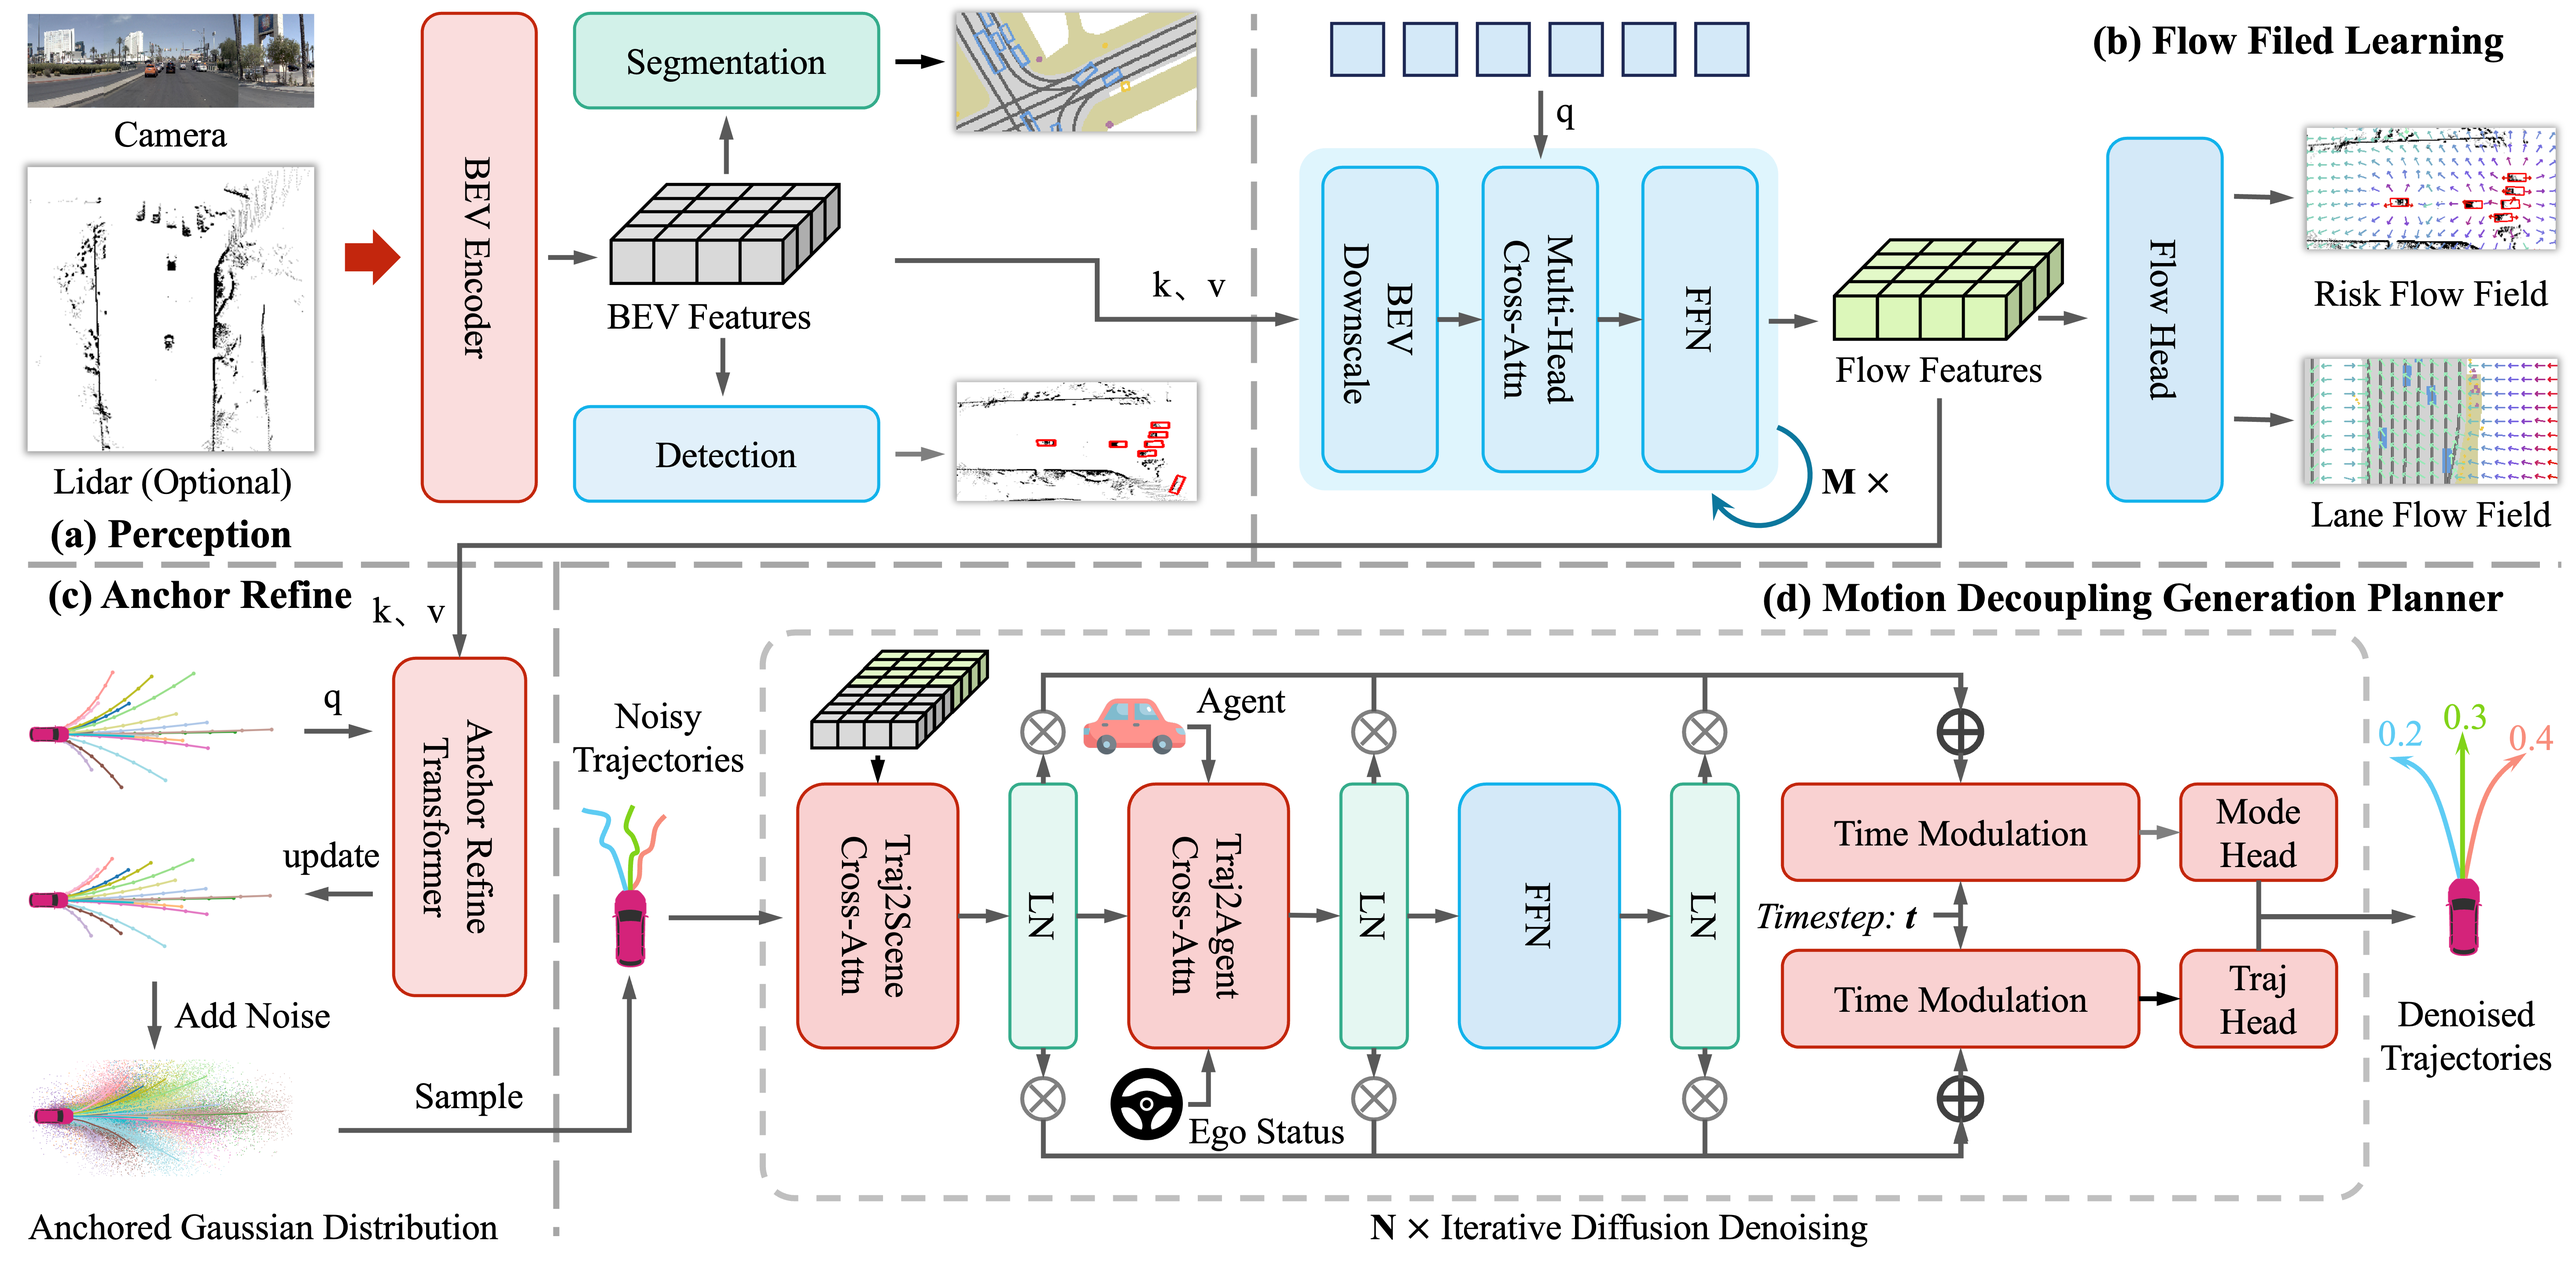
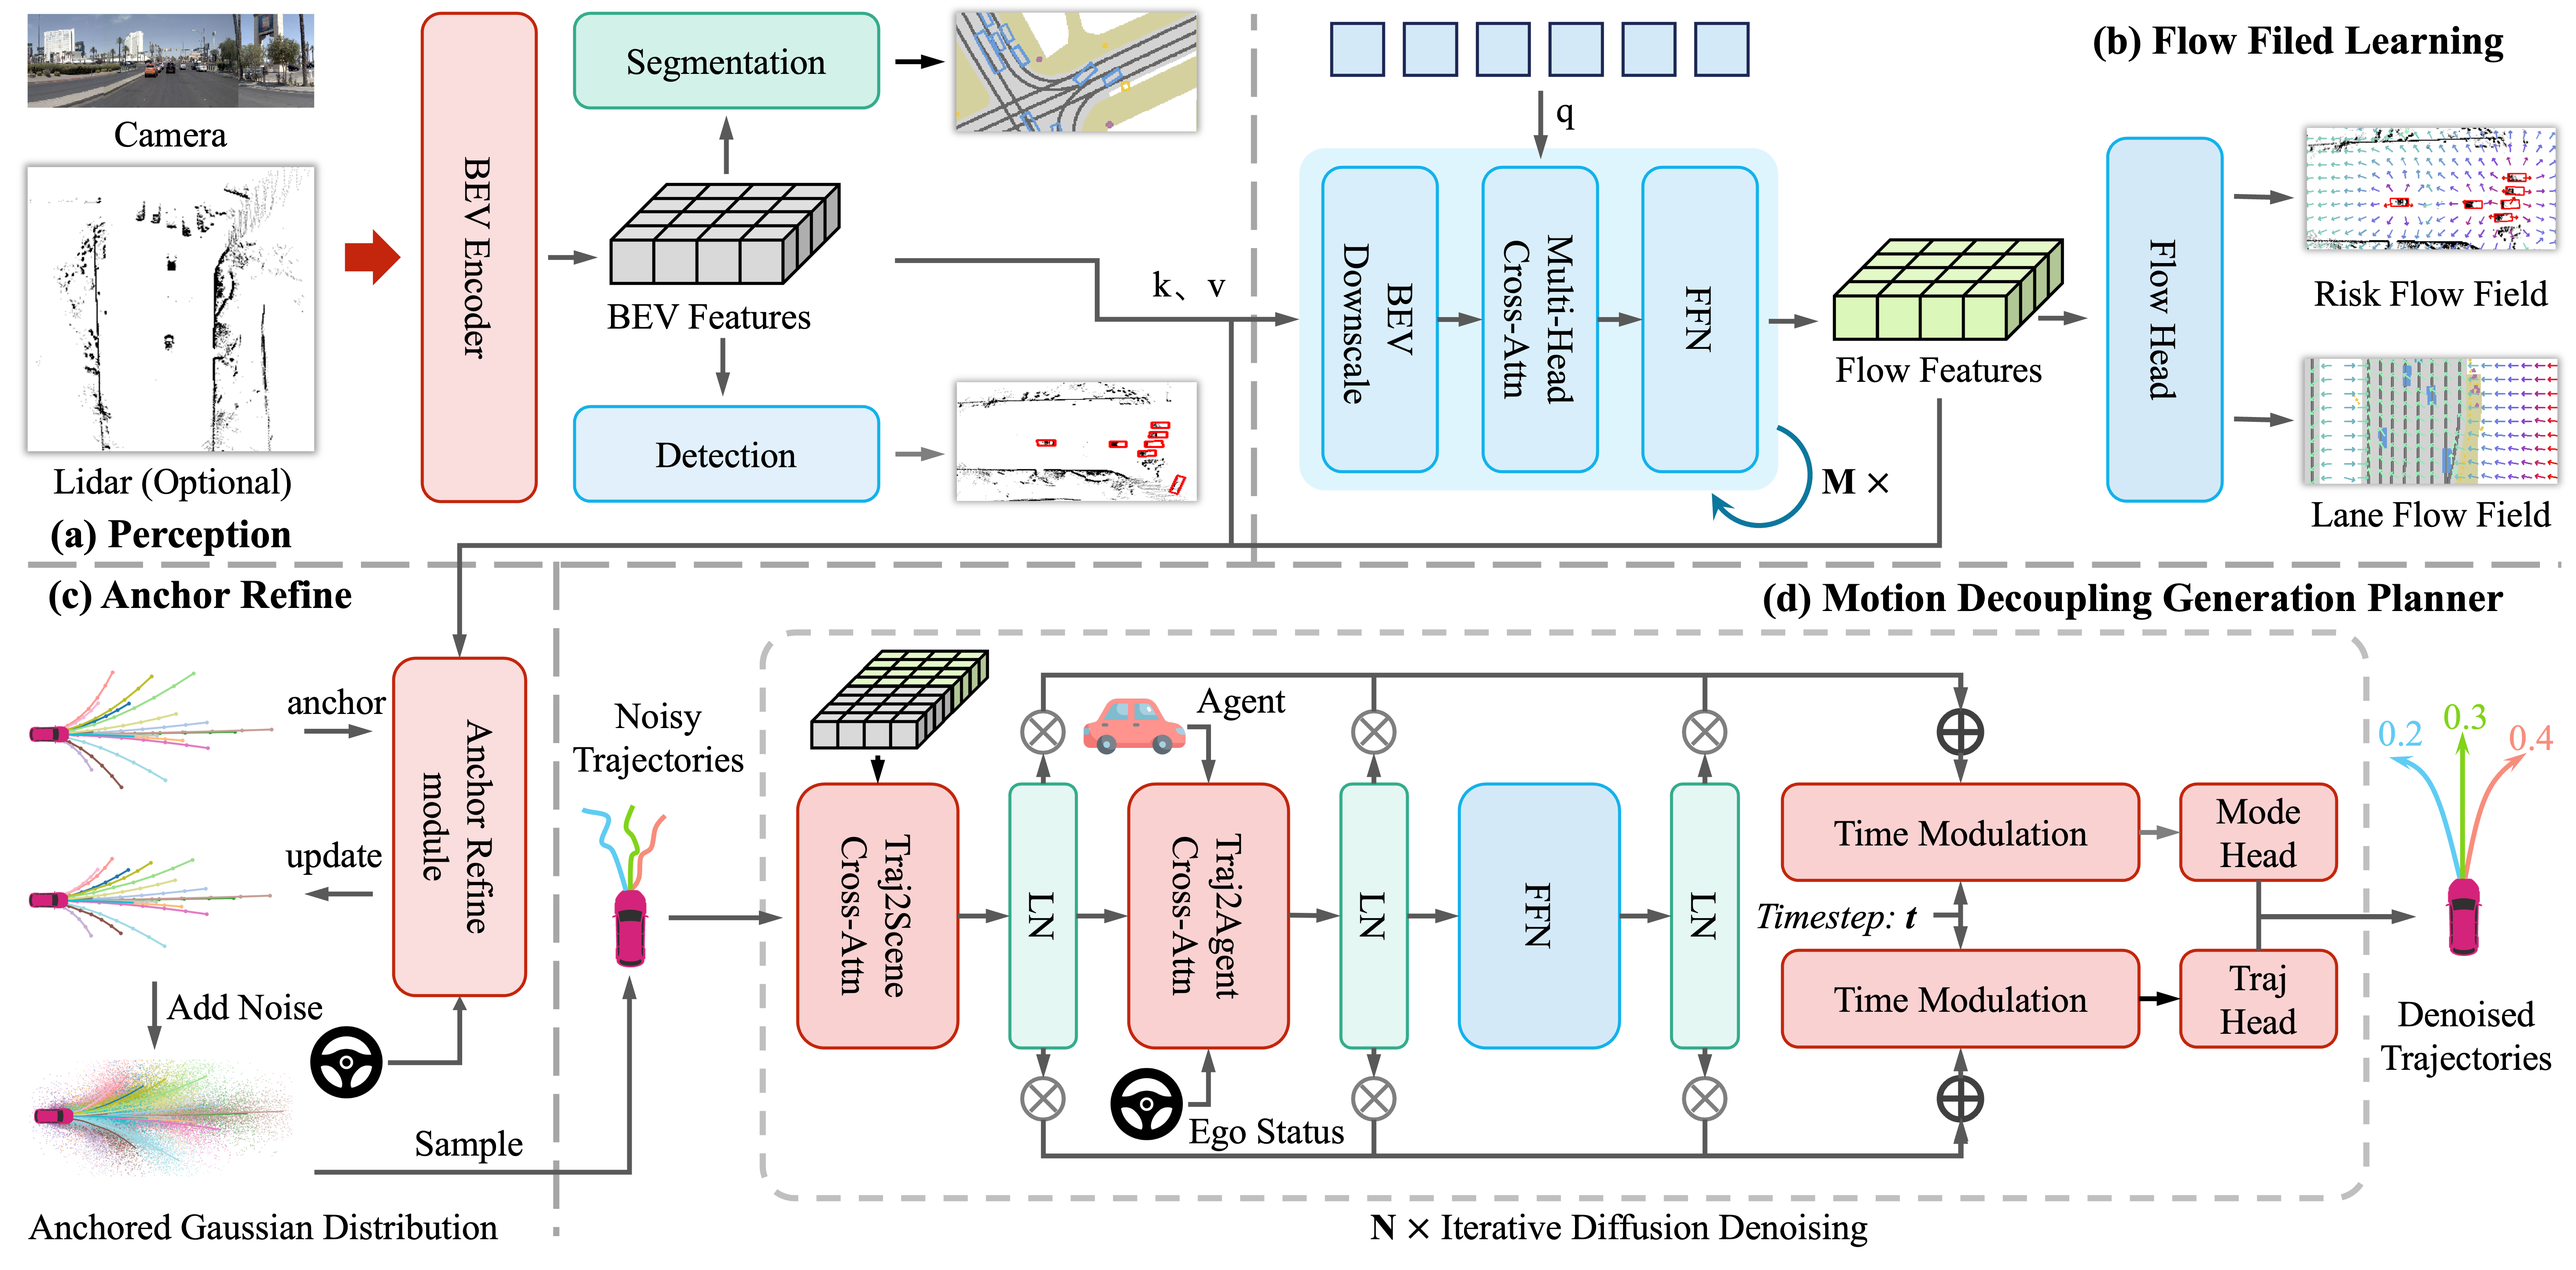
modify width

diff --git a/index.html b/index.html
@@ -132,7 +132,7 @@
 
 
 <section class="hero teaser">
-    <div class="container is-fluid">
+    <div class="container is-max-widescreen">
         <div class="hero-body">
             <h2 class="title is-3" style="text-align: center;">Visualizations</h2>
 
@@ -232,8 +232,8 @@
 
 
 <section class="section hero" style="margin-top: -20px;">
-    <!-- <div class="container is-max-desktop"> -->
-    <div class="container is-fluid">
+    <div class="container is-max-widescreen">
+    <!-- <div class="container is-fluid"> -->
         <div class="hero-body">
             <div class="item">
                 <h2 class="title is-3" style="text-align: center;">FlowDrive Model Architecture</h2>
@@ -248,13 +248,13 @@
 
 
 <section class="section hero" style="margin-top: -20px;">
-    <div class="container is-fluid">
+    <div class="container is-max-widescreen">
         <div class="columns is-centered has-text-centered">
             <div class="column is-four-fifths">
                 <h2 class="title is-3">Abstract</h2>
                 <div class="content has-text-justified">
                     <p>
-                        Recent advances in end-to-end autonomous driving leverage multi-view images to construct bird’s-eye-view (BEV) representations for environment understanding and motion prediction. While BEV features offer a compact and holistic encoding of the driving scene, they inherently lack explicit modeling of risk and guidance priors for safe and interpretable planning. In addition, existing frameworks often tightly couple motion pattern prediction with trajectory generation within the planning module, limiting flexibility and undermining the system's ability to generalize across diverse driving scenarios. To address these challenges, we propose FlowDrive, a novel motion-decoupled end-to-end driving framework based on flow field modeling. FlowDrive introduces risk potential fields and lane attraction fields, to construct continuous and physically interpretable motion flow fields that represent both dynamic and static elements in the environment. These flow-based representations augment BEV features with fine-grained safety-aware guidance, enabling more robust and rational trajectory planning. Furthermore, we incorporate an adaptive anchor refinement mechanism, which dynamically dynamically adjusts trajectory anchors to evolving scene context, improving planning precision and responsiveness. Furthermore, FlowDrive decouples motion-mode prediction from trajectory generation, enhancing planning interpretability and flexibility. Extensive experiments conducted on the NAVSIM v2 autonomous driving benchmark demonstrate that FlowDrive achieves state-of-the-art performance, reaching an EPDMS score of 86.1, significantly outperforming other baselines.
+                        Recent advances in end-to-end autonomous driving leverage multi-view images to construct BEV representations for motion planning. In motion planning, autonomous vehicles need considering both hard constraints imposed by geometrically occupied obstacles (e.g., vehicles,  pedestrians) and soft, rule-based semantics with no explicit geometry (e.g., lane boundaries, traffic priors).  However, existing end-to-end frameworks typically rely on BEV features learned in an implicit manner, lacking explicit modeling of risk and guidance priors for safe and interpretable planning. To address this, we propose \textbf{FlowDrive}, a novel framework that introduces physically interpretable energy-based flow fields—including risk potential and lane attraction fields—to encode semantic priors and safety cues into the BEV space. These flow-aware features enable adaptive refinement of anchor trajectories and serve as interpretable guidance for trajectory generation. Moreover, FlowDrive decouples motion intent prediction from trajectory denoising via a conditional diffusion planner with feature-level gating, alleviating task interference and enhancing multimodal diversity. Experiments on the NAVSIM v2 benchmark demonstrate that FlowDrive achieves state-of-the-art performance with an EPDMS of 86.3, surpassing prior baselines in both safety and planning quality.
                     </p>
                 </div>
             </div>
@@ -267,13 +267,13 @@
 
 
 <section class="hero teaser">
-    <div class="container is-fluid">
+    <div class="container is-max-widescreen">
         <div class="hero-body">
             <h2 class="title is-3" style="text-align: center;">Experimental Results</h2>
             <div class="columns is-centered">
                 <div class="column has-text-centered">
                     <div class="item">
-                        <h3 class="title is-4" style="text-align: center;">Quantitative Results</h3>
+                        <!-- <h3 class="title is-4" style="text-align: center;">Quantitative Results</h3> -->
                         <div style="text-align: center;">
                             <img src="static/images/quantitative_results.png" alt="Open-Loop planning performance" style="margin: 0 auto;"/>
                         </div>
